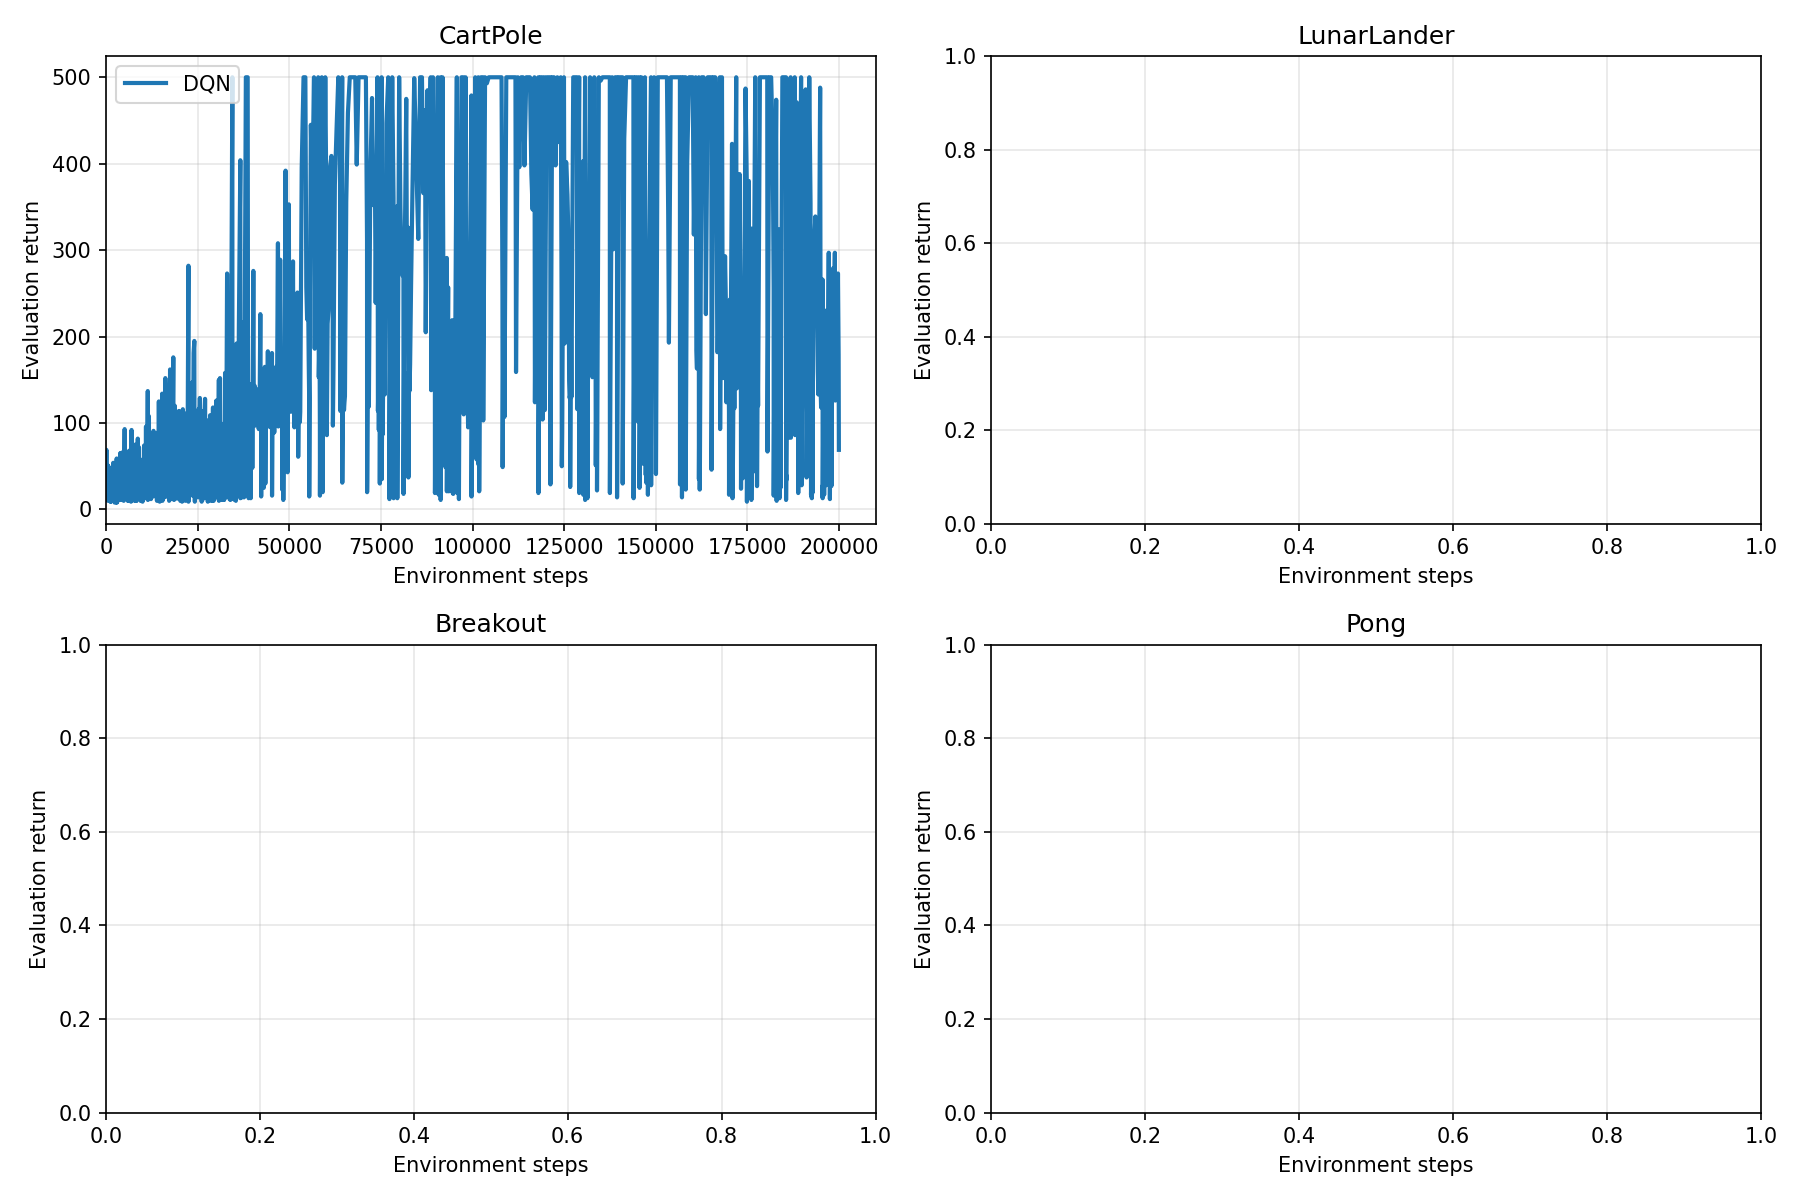
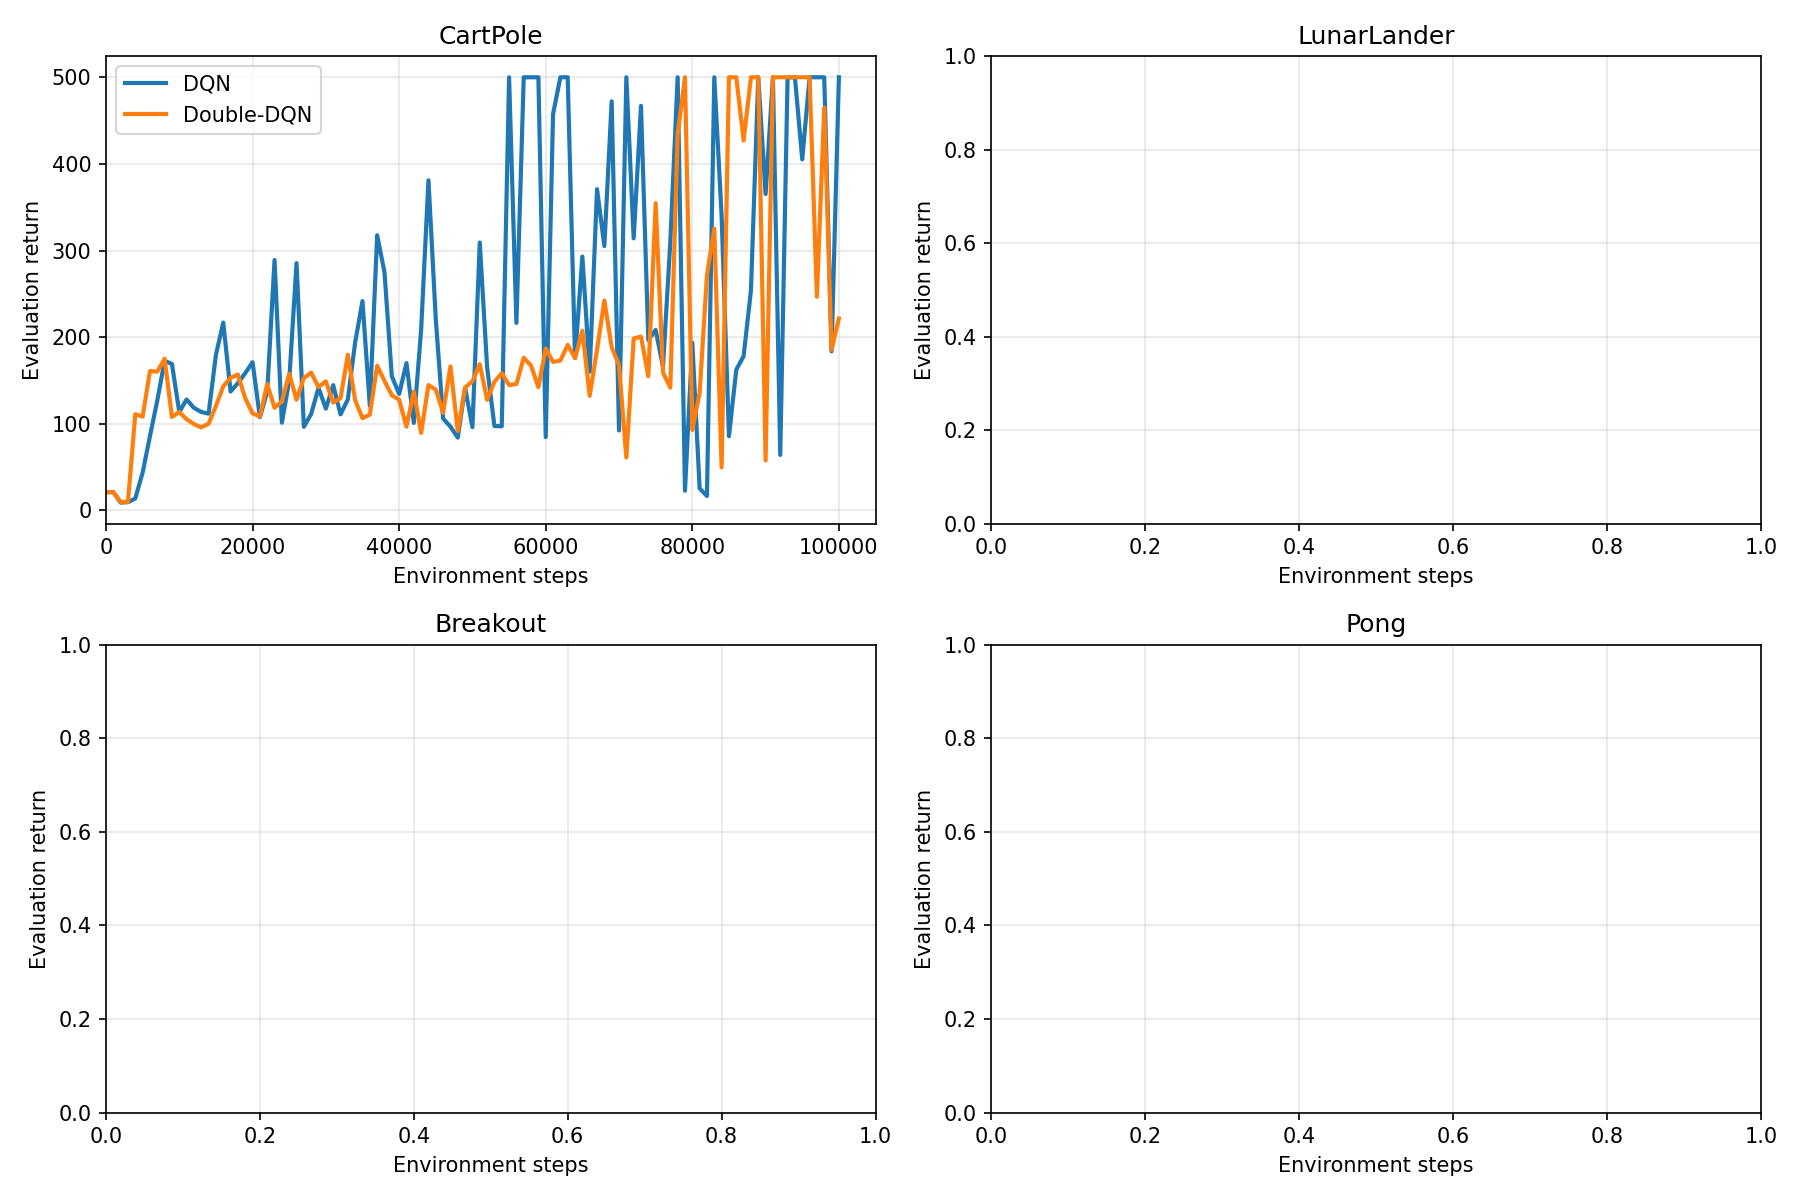
change hyperparameters

Changed region(s): [[0.0311, 0.0617, 0.4978, 0.4625], [0.0311, 0.185, 0.0622, 0.2158]]

diff --git a/src/dqn_experiments/run.py b/src/dqn_experiments/run.py
@@ -5,9 +5,9 @@ cmds = [
     ("cartpole_dqn",         ["python","-m","src.dqn_experiments.train","--env-id","CartPole-v1","--algo","dqn"]),
     ("cartpole_double_dqn",  ["python","-m","src.dqn_experiments.train","--env-id","CartPole-v1","--algo","double_dqn"]),
     ("cartpole_dueling_dqn", ["python","-m","src.dqn_experiments.train","--env-id","CartPole-v1","--algo","dueling_dqn"]),
-    ("LunarLander_dqn",         ["python","-m","src.dqn_experiments.train","--env-id","LunarLander-v2","--algo","dqn"]),
-    ("LunarLander_double_dqn",  ["python","-m","src.dqn_experiments.train","--env-id","LunarLander-v2","--algo","double_dqn"]),
-    ("LunarLander_dueling_dqn", ["python","-m","src.dqn_experiments.train","--env-id","LunarLander-v2","--algo","dueling_dqn"]),
+    # ("LunarLander_dqn",         ["python","-m","src.dqn_experiments.train","--env-id","LunarLander-v2","--algo","dqn"]),
+    # ("LunarLander_double_dqn",  ["python","-m","src.dqn_experiments.train","--env-id","LunarLander-v2","--algo","double_dqn"]),
+    # ("LunarLander_dueling_dqn", ["python","-m","src.dqn_experiments.train","--env-id","LunarLander-v2","--algo","dueling_dqn"]),
 ]
 
 logdir = pathlib.Path("logs") / time.strftime("%Y%m%d_%H%M%S")

diff --git a/src/dqn_experiments/train.py b/src/dqn_experiments/train.py
@@ -41,7 +41,7 @@ def get_default_hyperparameters(env_id: str) -> Dict[str, Any]:
             train_frequency=1,
             gradient_steps=1,
             target_update_interval=1_000,
-            target_update_tau=1.0,
+            target_update_tau= 0.01,
             learning_starts=1_000,
             exploration_fraction=0.2,
             exploration_initial_eps=1.0,
@@ -57,7 +57,7 @@ def get_default_hyperparameters(env_id: str) -> Dict[str, Any]:
             train_frequency=4,
             gradient_steps=1,
             target_update_interval=4_000,
-            target_update_tau=1.0,
+            target_update_tau=0.005,
             learning_starts=10_000,
             exploration_fraction=0.4,
             exploration_initial_eps=1.0,
@@ -73,7 +73,7 @@ def get_default_hyperparameters(env_id: str) -> Dict[str, Any]:
             train_frequency=4,
             gradient_steps=1,
             target_update_interval=10_000,
-            target_update_tau=1.0,
+            target_update_tau=0.001,
             learning_starts=50_000,
             exploration_fraction=0.1,
             exploration_initial_eps=1.0,
